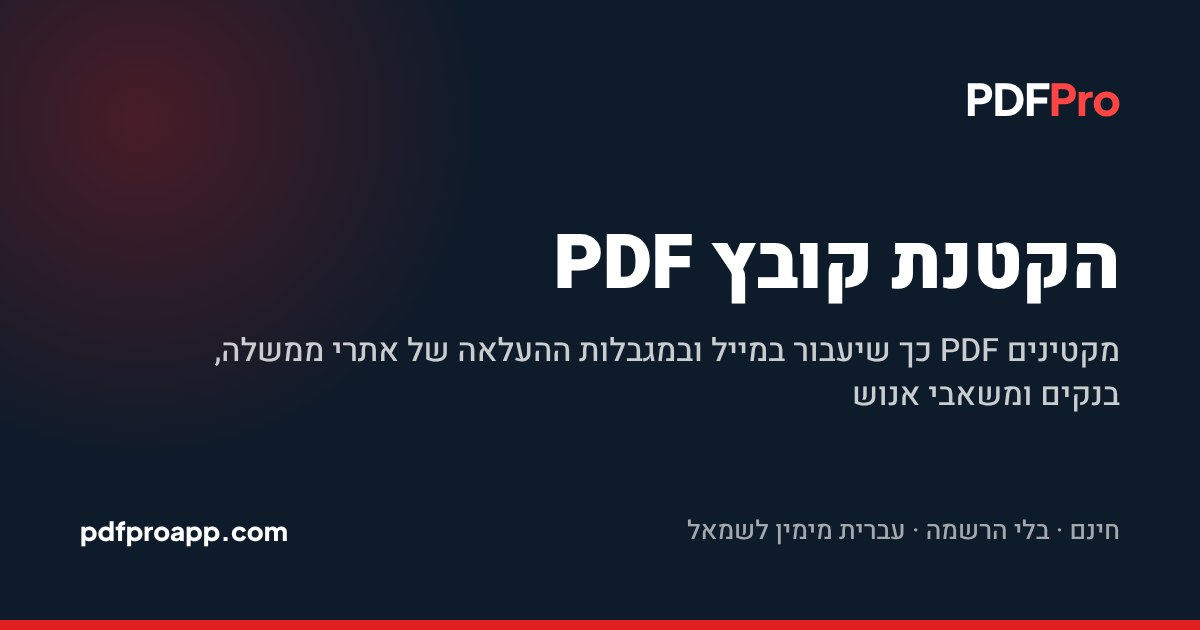
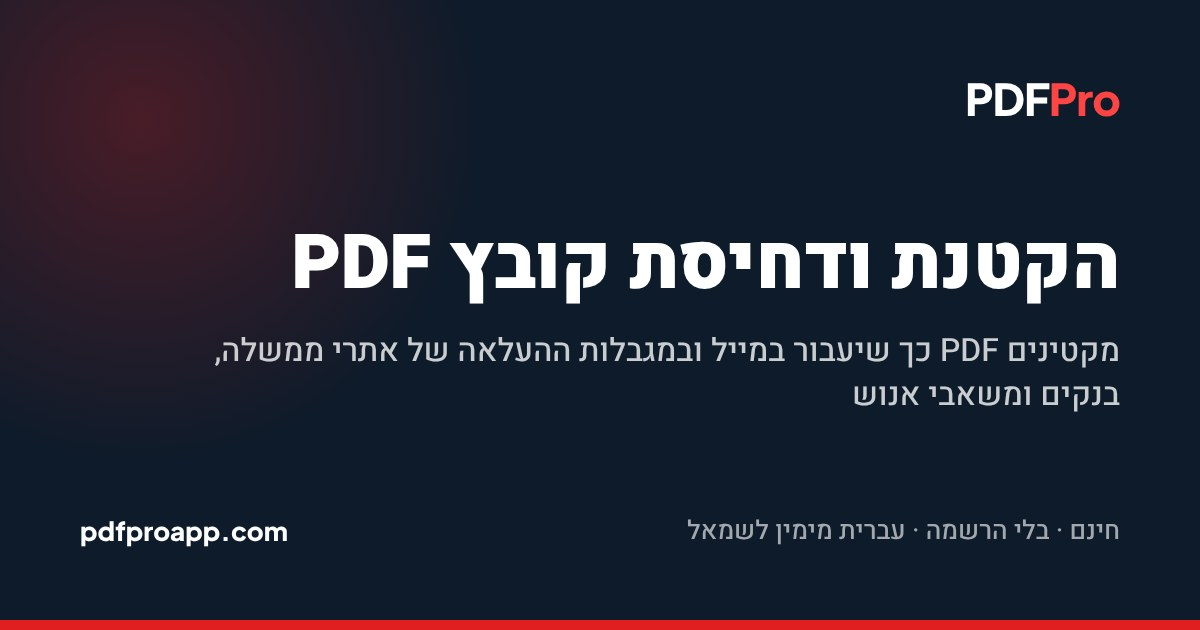
Hebrew merge/compress titles: both search terms (איחוד+מיזוג, הקטנת+דחיסת) (#33)
Claude-Session: https://claude.ai/code/session_01XJZ43rP6NY81ufvKxETeWz

Changed region(s): [[0.2467, 0.3619, 0.74, 0.4825]]

diff --git a/he/merge-pdf/index.html b/he/merge-pdf/index.html
@@ -3,8 +3,8 @@
 <head>
 <meta charset="UTF-8">
 <meta name="viewport" content="width=device-width, initial-scale=1">
-<title>איחוד קבצי PDF לקובץ אחד – בחינם, בלי סימן מים | PDFPro</title>
-<meta name="description" content="איחוד קבצי PDF לקובץ אחד: עד 20 קבצים, בסדר שתבחרו. בחינם, בלי הרשמה ובלי סימן מים.">
+<title>איחוד ומיזוג קבצי PDF לקובץ אחד – בחינם | PDFPro</title>
+<meta name="description" content="איחוד ומיזוג קבצי PDF לקובץ אחד: עד 20 קבצים, בסדר שתבחרו. בחינם, בלי הרשמה ובלי סימן מים.">
 <link rel="canonical" href="https://www.pdfproapp.com/he/merge-pdf/">
 <link rel="icon" href="/favicon.ico" sizes="48x48">
 <link rel="icon" href="/favicon.svg" type="image/svg+xml">
@@ -17,14 +17,14 @@
 <link rel="alternate" hreflang="x-default" href="https://www.pdfproapp.com/merge-pdf/">
 <meta property="og:type" content="website">
 <meta property="og:site_name" content="PDFPro">
-<meta property="og:title" content="איחוד קבצי PDF לקובץ אחד – בחינם, בלי סימן מים | PDFPro">
-<meta property="og:description" content="איחוד קבצי PDF לקובץ אחד: עד 20 קבצים, בסדר שתבחרו. בחינם, בלי הרשמה ובלי סימן מים.">
+<meta property="og:title" content="איחוד ומיזוג קבצי PDF לקובץ אחד – בחינם | PDFPro">
+<meta property="og:description" content="איחוד ומיזוג קבצי PDF לקובץ אחד: עד 20 קבצים, בסדר שתבחרו. בחינם, בלי הרשמה ובלי סימן מים.">
 <meta property="og:url" content="https://www.pdfproapp.com/he/merge-pdf/">
 <meta property="og:locale" content="he_IL">
 <meta property="og:image" content="https://www.pdfproapp.com/assets/og/he-merge-pdf.jpg">
 <meta property="og:image:width" content="1200">
 <meta property="og:image:height" content="630">
-<meta property="og:image:alt" content="איחוד קבצי PDF לקובץ אחד – בחינם, בלי סימן מים | PDFPro">
+<meta property="og:image:alt" content="איחוד ומיזוג קבצי PDF לקובץ אחד – בחינם | PDFPro">
 <meta name="twitter:card" content="summary_large_image">
 <meta name="twitter:image" content="https://www.pdfproapp.com/assets/og/he-merge-pdf.jpg">
 <link rel="preconnect" href="https://fonts.googleapis.com">
@@ -35,7 +35,7 @@
 <script async src="https://pagead2.googlesyndication.com/pagead/js/adsbygoogle.js?client=ca-pub-5921716820042715" crossorigin="anonymous"></script>
 <script async src="https://www.googletagmanager.com/gtag/js?id=G-TL72YY4S22"></script>
 <script>window.dataLayer=window.dataLayer||[];function gtag(){dataLayer.push(arguments);}gtag('js',new Date());gtag('config','G-TL72YY4S22');</script>
-<script type="application/ld+json">{"@context": "https://schema.org", "@graph": [{"@type": "WebApplication", "name": "PDFPro מיזוג PDF", "url": "https://www.pdfproapp.com/he/merge-pdf/", "applicationCategory": "UtilitiesApplication", "operatingSystem": "Any", "inLanguage": "he", "description": "איחוד קבצי PDF לקובץ אחד: עד 20 קבצים, בסדר שתבחרו. בחינם, בלי הרשמה ובלי סימן מים.", "offers": {"@type": "Offer", "price": "0", "priceCurrency": "USD"}}, {"@type": "FAQPage", "mainEntity": [{"@type": "Question", "name": "כמה קבצים אפשר למזג?", "acceptedAnswer": {"@type": "Answer", "text": "בין 2 ל-20 קבצי PDF בפעם אחת."}}, {"@type": "Question", "name": "המיזוג פוגע באיכות?", "acceptedAnswer": {"@type": "Answer", "text": "לא. העמודים מועתקים כמו שהם, בלי דחיסה מחדש."}}, {"@type": "Question", "name": "אפשר למזג PDF מוגן בסיסמה?", "acceptedAnswer": {"@type": "Answer", "text": "לא ישירות. מסירים קודם את הסיסמה בכלי הסרת סיסמה מ-PDF, ואז ממזגים."}}, {"@type": "Question", "name": "הקובץ המאוחד גדול מדי, מה עושים?", "acceptedAnswer": {"@type": "Answer", "text": "מעבירים אותו אחרי המיזוג דרך דחיסת PDF."}}]}, {"@type": "BreadcrumbList", "itemListElement": [{"@type": "ListItem", "position": 1, "name": "בית", "item": "https://www.pdfproapp.com/he/"}, {"@type": "ListItem", "position": 2, "name": "מיזוג PDF"}]}]}</script>
+<script type="application/ld+json">{"@context": "https://schema.org", "@graph": [{"@type": "WebApplication", "name": "PDFPro מיזוג PDF", "url": "https://www.pdfproapp.com/he/merge-pdf/", "applicationCategory": "UtilitiesApplication", "operatingSystem": "Any", "inLanguage": "he", "description": "איחוד ומיזוג קבצי PDF לקובץ אחד: עד 20 קבצים, בסדר שתבחרו. בחינם, בלי הרשמה ובלי סימן מים.", "offers": {"@type": "Offer", "price": "0", "priceCurrency": "USD"}}, {"@type": "FAQPage", "mainEntity": [{"@type": "Question", "name": "כמה קבצים אפשר למזג?", "acceptedAnswer": {"@type": "Answer", "text": "בין 2 ל-20 קבצי PDF בפעם אחת."}}, {"@type": "Question", "name": "המיזוג פוגע באיכות?", "acceptedAnswer": {"@type": "Answer", "text": "לא. העמודים מועתקים כמו שהם, בלי דחיסה מחדש."}}, {"@type": "Question", "name": "אפשר למזג PDF מוגן בסיסמה?", "acceptedAnswer": {"@type": "Answer", "text": "לא ישירות. מסירים קודם את הסיסמה בכלי הסרת סיסמה מ-PDF, ואז ממזגים."}}, {"@type": "Question", "name": "הקובץ המאוחד גדול מדי, מה עושים?", "acceptedAnswer": {"@type": "Answer", "text": "מעבירים אותו אחרי המיזוג דרך דחיסת PDF."}}]}, {"@type": "BreadcrumbList", "itemListElement": [{"@type": "ListItem", "position": 1, "name": "בית", "item": "https://www.pdfproapp.com/he/"}, {"@type": "ListItem", "position": 2, "name": "מיזוג PDF"}]}]}</script>
 </head>
 <body class="rtl">
 <header class="site-nav">
@@ -52,7 +52,7 @@
 <main>
 <div class="container">
   <nav class="breadcrumb" aria-label="Breadcrumb"><ol><li><a href="/he/">בית</a></li><li aria-current="page">מיזוג PDF</li></ol></nav>
-  <h1>איחוד קבצי PDF</h1>
+  <h1>איחוד ומיזוג קבצי PDF</h1>
   <p class="lead">מאחדים כמה קבצי PDF לקובץ אחד. מוסיפים, קובעים סדר ומורידים PDF אחד.</p>
 
   <section class="tool" aria-label="מיזוג PDF">

diff --git a/he/compress-pdf/index.html b/he/compress-pdf/index.html
@@ -3,7 +3,7 @@
 <head>
 <meta charset="UTF-8">
 <meta name="viewport" content="width=device-width, initial-scale=1">
-<title>הקטנת קובץ PDF בחינם – בלי להרוס את האיכות | PDFPro</title>
+<title>הקטנת ודחיסת קובץ PDF בחינם – בלי להרוס את האיכות | PDFPro</title>
 <meta name="description" content="הקטנת קובץ PDF למייל או להעלאה לאתרים עם מגבלת גודל, בלי להרוס אותו. טקסט וחתימות נשארים חדים, ואם אי אפשר להקטין מקבלים את המקור. בחינם.">
 <link rel="canonical" href="https://www.pdfproapp.com/he/compress-pdf/">
 <link rel="icon" href="/favicon.ico" sizes="48x48">
@@ -17,14 +17,14 @@
 <link rel="alternate" hreflang="x-default" href="https://www.pdfproapp.com/compress-pdf/">
 <meta property="og:type" content="website">
 <meta property="og:site_name" content="PDFPro">
-<meta property="og:title" content="הקטנת קובץ PDF בחינם – בלי להרוס את האיכות | PDFPro">
+<meta property="og:title" content="הקטנת ודחיסת קובץ PDF בחינם – בלי להרוס את האיכות | PDFPro">
 <meta property="og:description" content="הקטנת קובץ PDF למייל או להעלאה לאתרים עם מגבלת גודל, בלי להרוס אותו. טקסט וחתימות נשארים חדים, ואם אי אפשר להקטין מקבלים את המקור. בחינם.">
 <meta property="og:url" content="https://www.pdfproapp.com/he/compress-pdf/">
 <meta property="og:locale" content="he_IL">
 <meta property="og:image" content="https://www.pdfproapp.com/assets/og/he-compress-pdf.jpg">
 <meta property="og:image:width" content="1200">
 <meta property="og:image:height" content="630">
-<meta property="og:image:alt" content="הקטנת קובץ PDF בחינם – בלי להרוס את האיכות | PDFPro">
+<meta property="og:image:alt" content="הקטנת ודחיסת קובץ PDF בחינם – בלי להרוס את האיכות | PDFPro">
 <meta name="twitter:card" content="summary_large_image">
 <meta name="twitter:image" content="https://www.pdfproapp.com/assets/og/he-compress-pdf.jpg">
 <link rel="preconnect" href="https://fonts.googleapis.com">
@@ -52,7 +52,7 @@
 <main>
 <div class="container">
   <nav class="breadcrumb" aria-label="Breadcrumb"><ol><li><a href="/he/">בית</a></li><li aria-current="page">דחיסת PDF</li></ol></nav>
-  <h1>הקטנת קובץ PDF</h1>
+  <h1>הקטנת ודחיסת קובץ PDF</h1>
   <p class="lead">מקטינים PDF כך שיעבור במייל ובמגבלות ההעלאה של אתרי ממשלה, בנקים ומשאבי אנוש. טקסט וחתימות נשארים חדים, ואם אי אפשר להקטין את הקובץ מקבלים את המקור, אף פעם לא עותק הרוס.</p>
 
   <section class="tool" aria-label="דחיסת PDF">

diff --git a/build.py b/build.py
@@ -317,9 +317,9 @@ TOOLS = [
         },
         "he": {
             "name": "דחיסת PDF",
-            "title": "הקטנת קובץ PDF בחינם – בלי להרוס את האיכות | PDFPro",
+            "title": "הקטנת ודחיסת קובץ PDF בחינם – בלי להרוס את האיכות | PDFPro",
             "desc": "הקטנת קובץ PDF למייל או להעלאה לאתרים עם מגבלת גודל, בלי להרוס אותו. טקסט וחתימות נשארים חדים, ואם אי אפשר להקטין מקבלים את המקור. בחינם.",
-            "h1": "הקטנת קובץ PDF",
+            "h1": "הקטנת ודחיסת קובץ PDF",
             "lead": "מקטינים PDF כך שיעבור במייל ובמגבלות ההעלאה של אתרי ממשלה, בנקים ומשאבי אנוש. טקסט וחתימות נשארים חדים, ואם אי אפשר להקטין את הקובץ מקבלים את המקור, אף פעם לא עותק הרוס.",
             "run": "דחוס PDF",
             "steps": [
@@ -363,9 +363,9 @@ TOOLS = [
         },
         "he": {
             "name": "מיזוג PDF",
-            "title": "איחוד קבצי PDF לקובץ אחד – בחינם, בלי סימן מים | PDFPro",
-            "desc": "איחוד קבצי PDF לקובץ אחד: עד 20 קבצים, בסדר שתבחרו. בחינם, בלי הרשמה ובלי סימן מים.",
-            "h1": "איחוד קבצי PDF",
+            "title": "איחוד ומיזוג קבצי PDF לקובץ אחד – בחינם | PDFPro",
+            "desc": "איחוד ומיזוג קבצי PDF לקובץ אחד: עד 20 קבצים, בסדר שתבחרו. בחינם, בלי הרשמה ובלי סימן מים.",
+            "h1": "איחוד ומיזוג קבצי PDF",
             "lead": "מאחדים כמה קבצי PDF לקובץ אחד. מוסיפים, קובעים סדר ומורידים PDF אחד.",
             "run": "מזג קבצים",
             "steps": [
